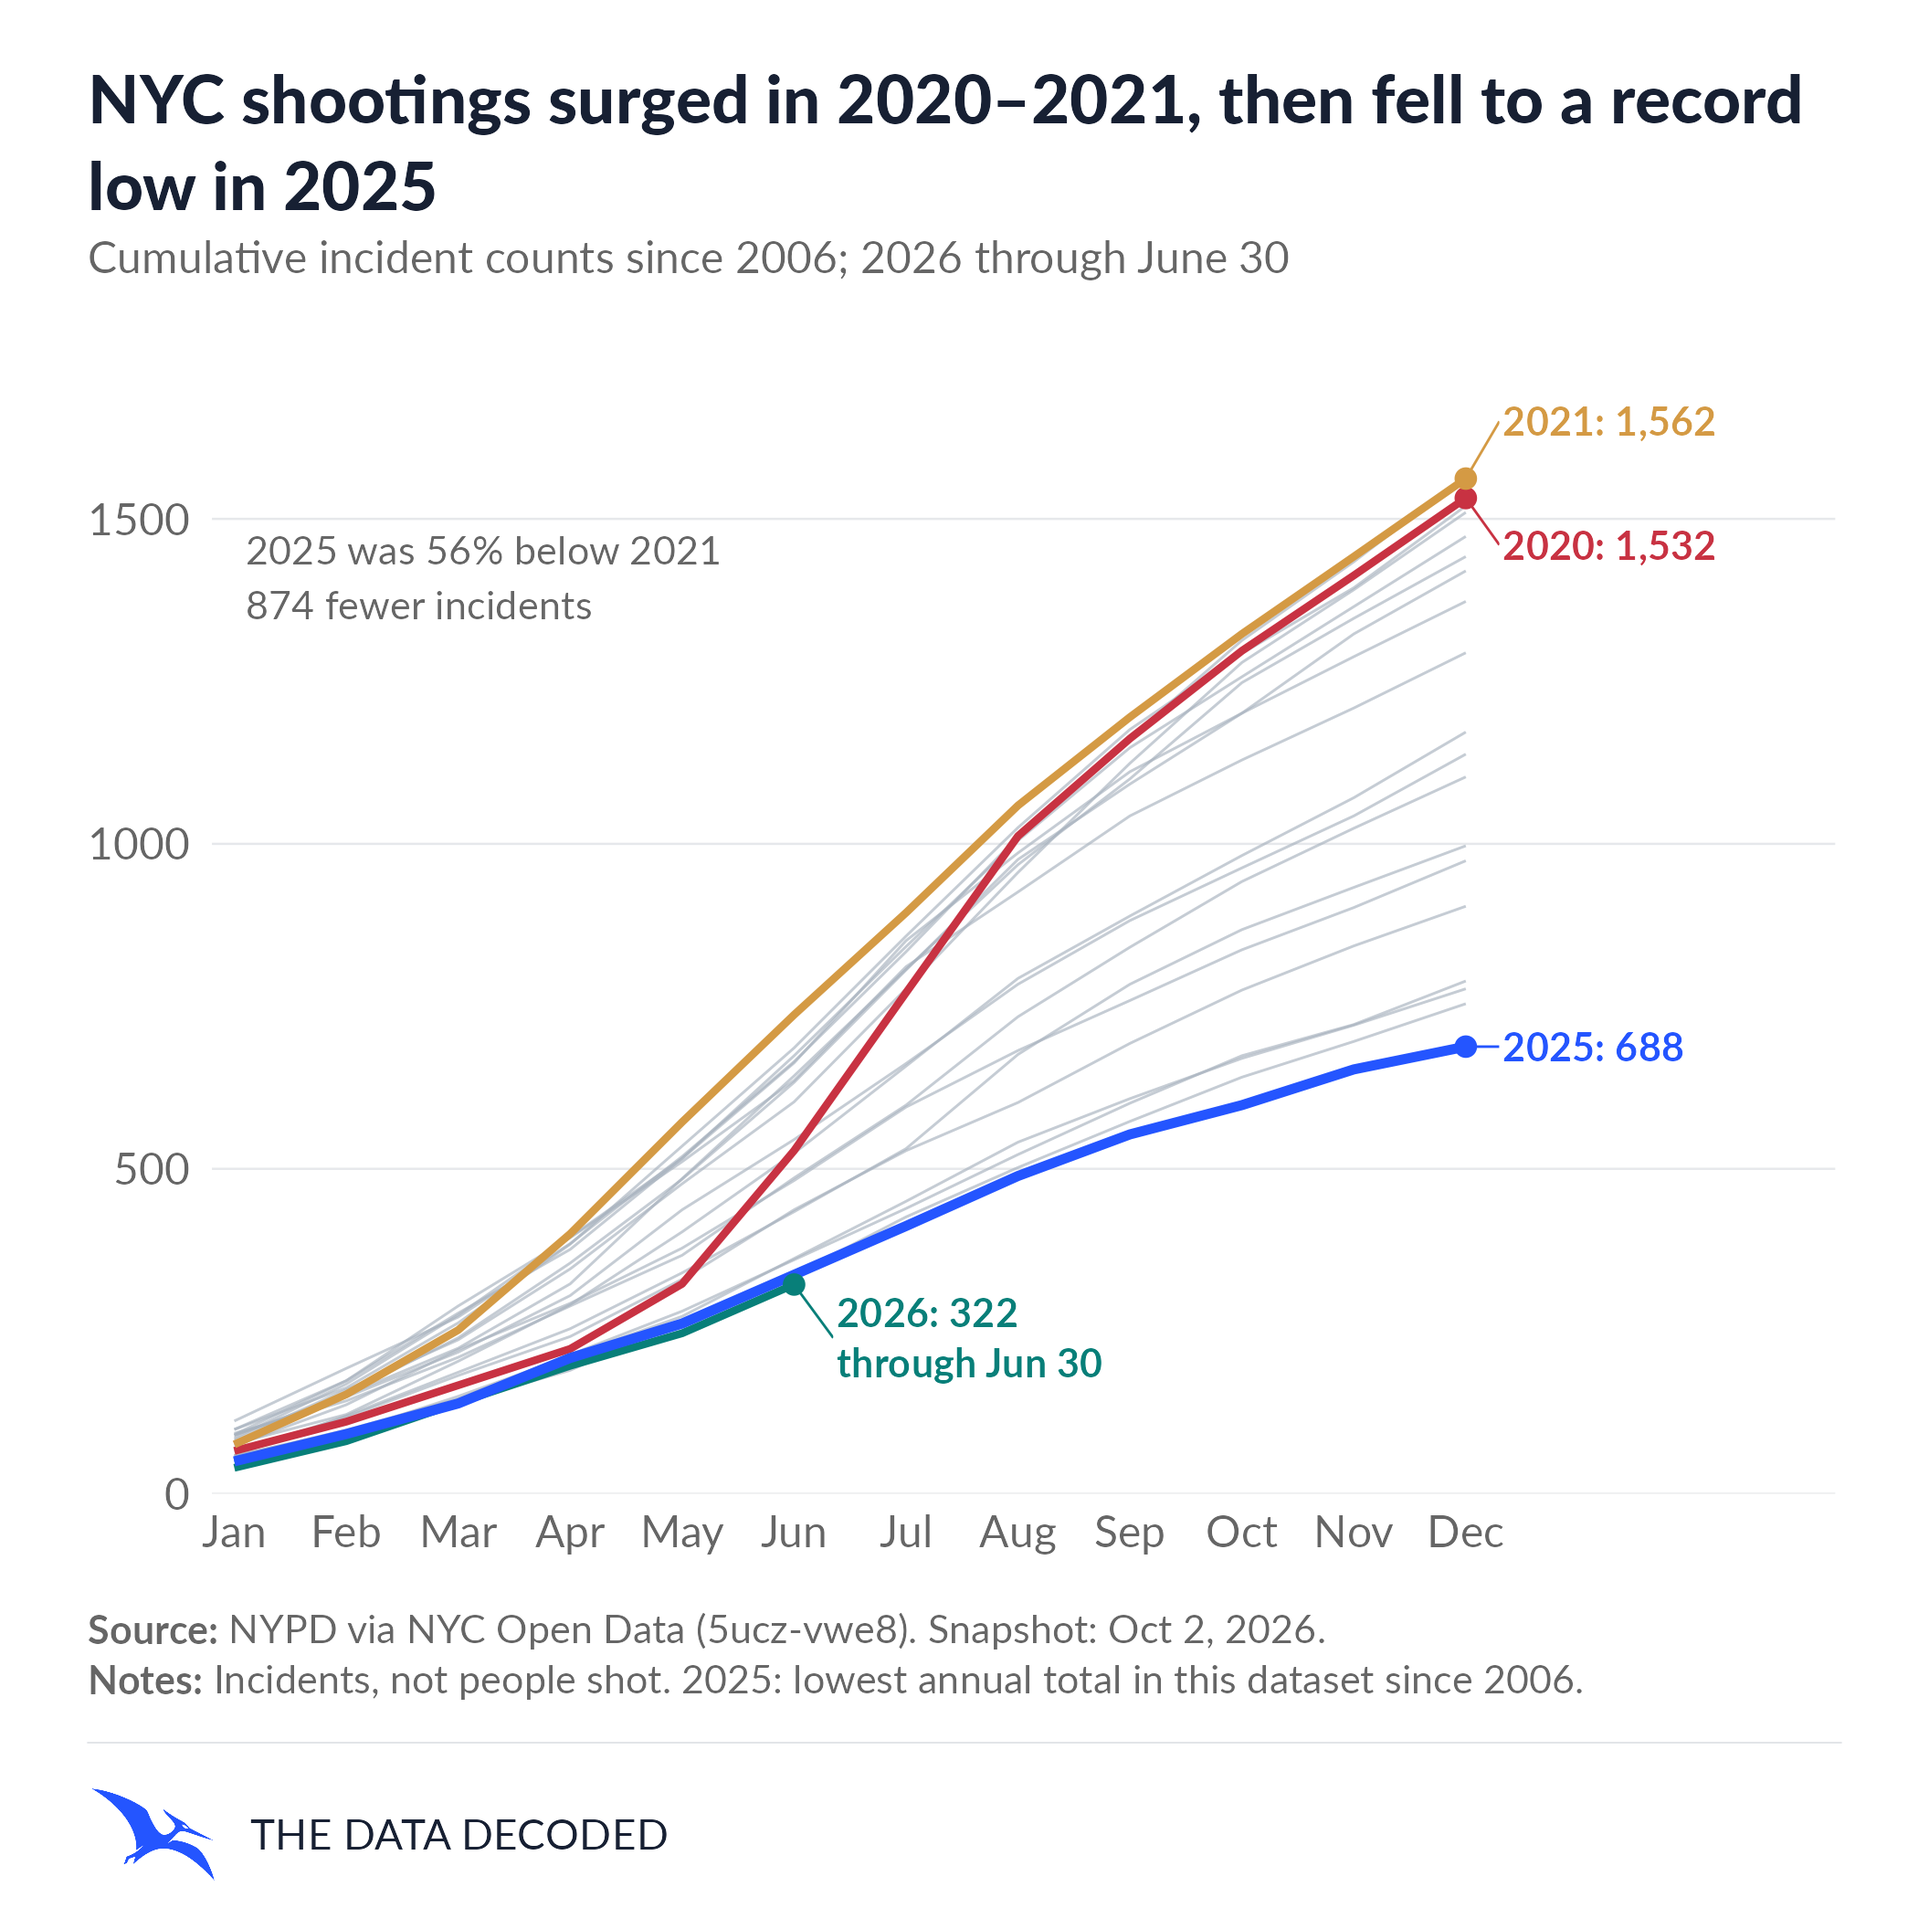
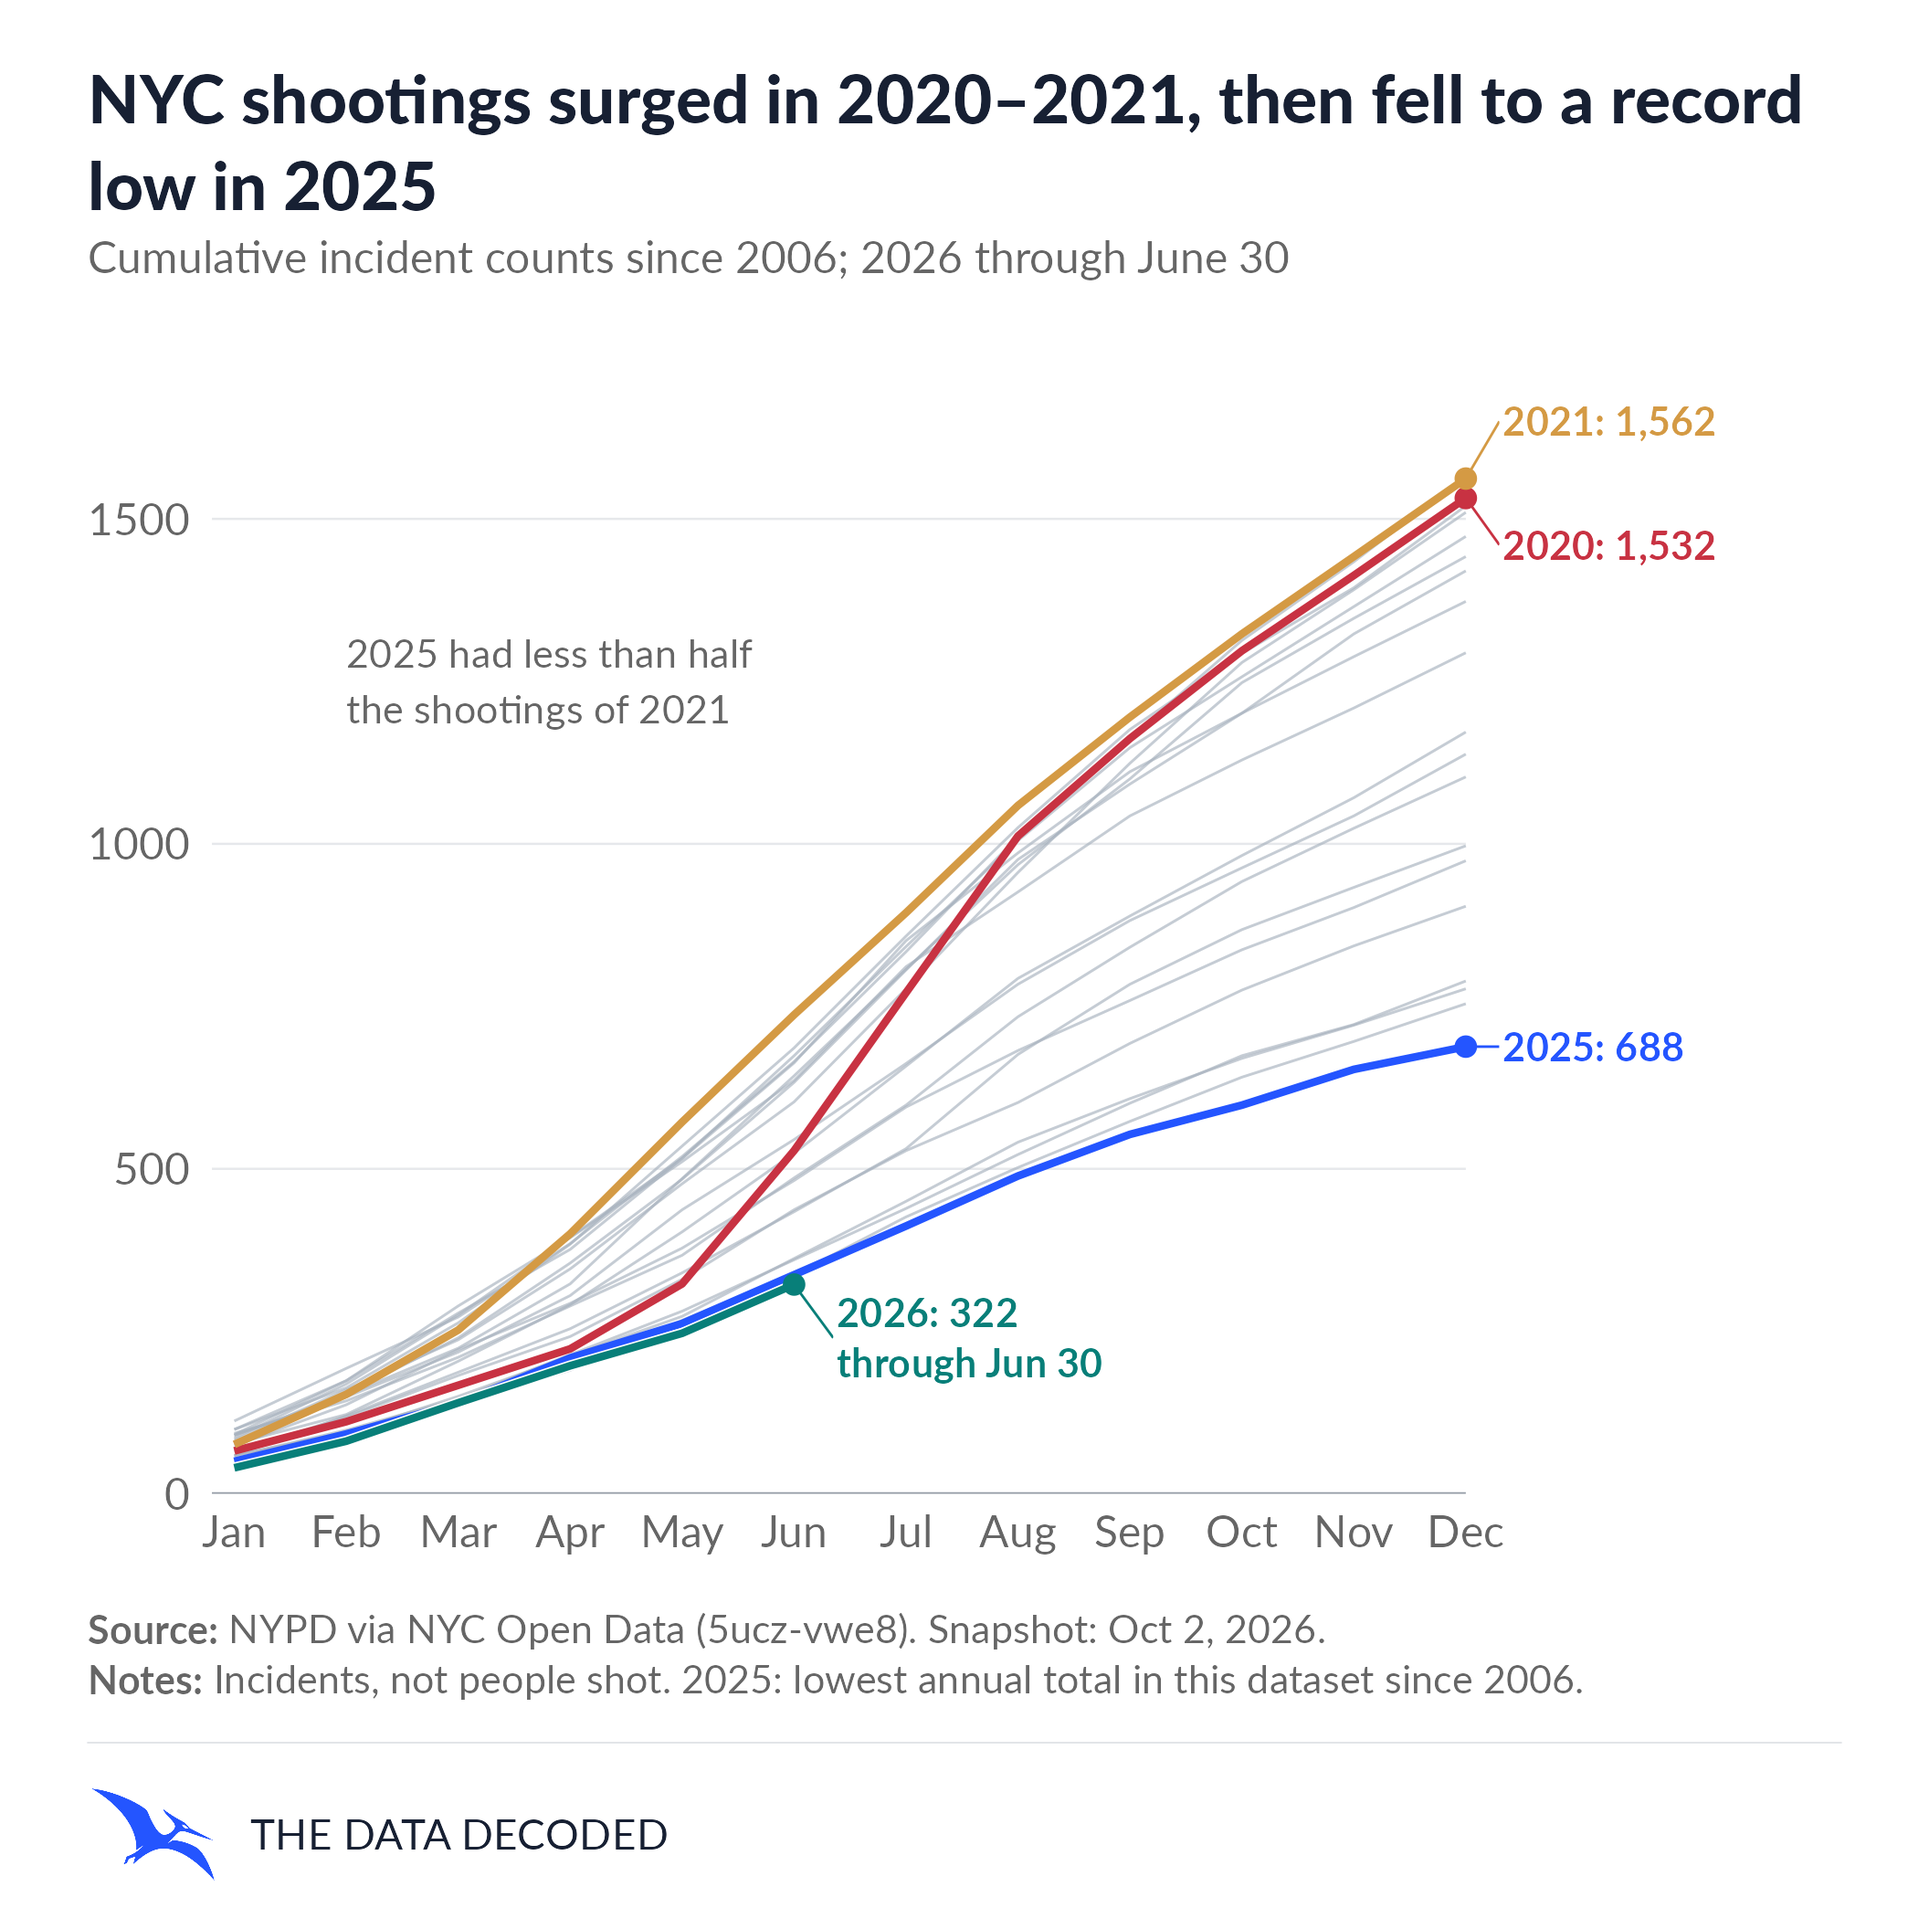
Refine NYC chart boundaries baseline and overlapping lines

diff --git a/visuals/2026-10-nyc-shootings/presentation-review.md b/visuals/2026-10-nyc-shootings/presentation-review.md
@@ -27,3 +27,11 @@ Both titles retain two measured lines. White square 8.8 inch canvases, 240 dpi /
 Monthly historical lines are reduced from 0.42 / alpha 0.65 to 0.30 / alpha 0.45. The 2026 label moves from x=6.3, y=100 to x=6.4, y=103 with its solid teal connector. Highlighted years remain identifiable in the denser monthly chart. Full-size PNG and browser SVG renders and paired 390 px reviews found no clipping or text collisions. Both browser SVGs reported loaded Lato 400/700/900; both passed XML parsing with one root, embedded exact fonts and internal license metadata. Missing-font failure was exercised. Amber 2021 text remains faint at phone width (2.47:1 on white); palette retained. Footer text is compact at phone width and best read in the full-resolution export.
 
 pnpm build and pnpm verify passed: 16 published projects, preserved legacy pages/assets, output allowlist and draft exclusion. NYC story remains draft and post unapproved. Verified tables, saved snapshot, original files, typography comparison exports and other projects are unchanged. PNG replacement uses a checked temporary render and reversible previous-file rename. No shared R functions extracted.
+
+## Data boundary and overlap refinement
+
+Both master pairs regenerated directly from R. Gridlines and the single darker zero baseline stop at December; the blank margin beyond December contains only full-year endpoint labels and short solid connectors. Highlighted 2020/2021/2025/2026 strokes all use 1.2 mm (SVG stroke width 2.56 pt). The 1.65 mm white underlay is limited to 2026's January-June segment and immediately precedes its teal line. It provides a small separation where blue and teal overlap, without excessive removal of context lines. Gray historical strokes remain unchanged and thinner.
+
+The cumulative annotation now reads "2025 had less than half / the shootings of 2021", left-aligned at February and vertically centered around 1,250 in supporting gray. Full-size PNG and 390 px PNG/SVG browser reviews found no collisions or clipping. XML checks confirmed one zero baseline per chart and all grid endpoints matching December; highlighted widths are equal. Both browser SVGs loaded Lato 400/700/900; exact-file R checks passed. The amber 2021 text remains faint at phone width and footer text remains compact; no new visual issues observed.
+
+pnpm build and pnpm verify passed, including draft exclusion and output allowlist. Saved snapshot, calculations, original reference exports and unrelated files remain unchanged. Story remains draft and X post unapproved.

diff --git a/brand-exploration/README.md b/brand-exploration/README.md
@@ -85,3 +85,9 @@ The frame is ready for a **trial on one new real project**, with B as the provis
 ## NYC A/B/C typography comparison (unapproved)
 
 The isolated [cumulative-chart comparison](../visuals/2026-10-nyc-shootings/typography-comparison/README.md) tests Playfair Display + Work Sans (A), Lato throughout (B), and current reduced Work Sans (C). All use identical sizes and geometry: two 22 pt title lines, 5.6535 inch plot allocation, 2112px square exports. Exact official font files and licenses are bundled only inside that comparison. C's PNG matches the current master pixel for pixel. Recommendation is C at phone size, with A as the serif alternative; final choice is pending user review. This records the earlier Work Sans direction; the Lato adoption above now governs future charts. No new shared functions, production-font changes, or other chart exports.
+
+### NYC line boundary and zero baseline refinement
+
+Reserve a direct-label margin beyond the final data x-position; gridlines and the zero baseline stop at December in the NYC trial. Use a distinct zero baseline when zero is meaningful and visible, secondary to the data but darker than major grids. For horizontal bars this generally means a vertical zero line; it is not mandatory decoration for every chart type.
+
+NYC highlighted strokes are equally 1.2 mm; historical strokes retain their thinner weights. The observed January-June 2026 segment alone has a subtle 1.65 mm white underlay (0.225 mm margin per side), drawn immediately before the 1.2 mm teal stroke. Everything remains solid. Major grids are #E6E8EB / 0.35 mm; the single zero baseline is #939BA5 / 0.5 mm. The cumulative comparison is left-aligned near February, vertically centered at 1,250, without a box or leader. These remain local trial choices, with no shared functions extracted.
